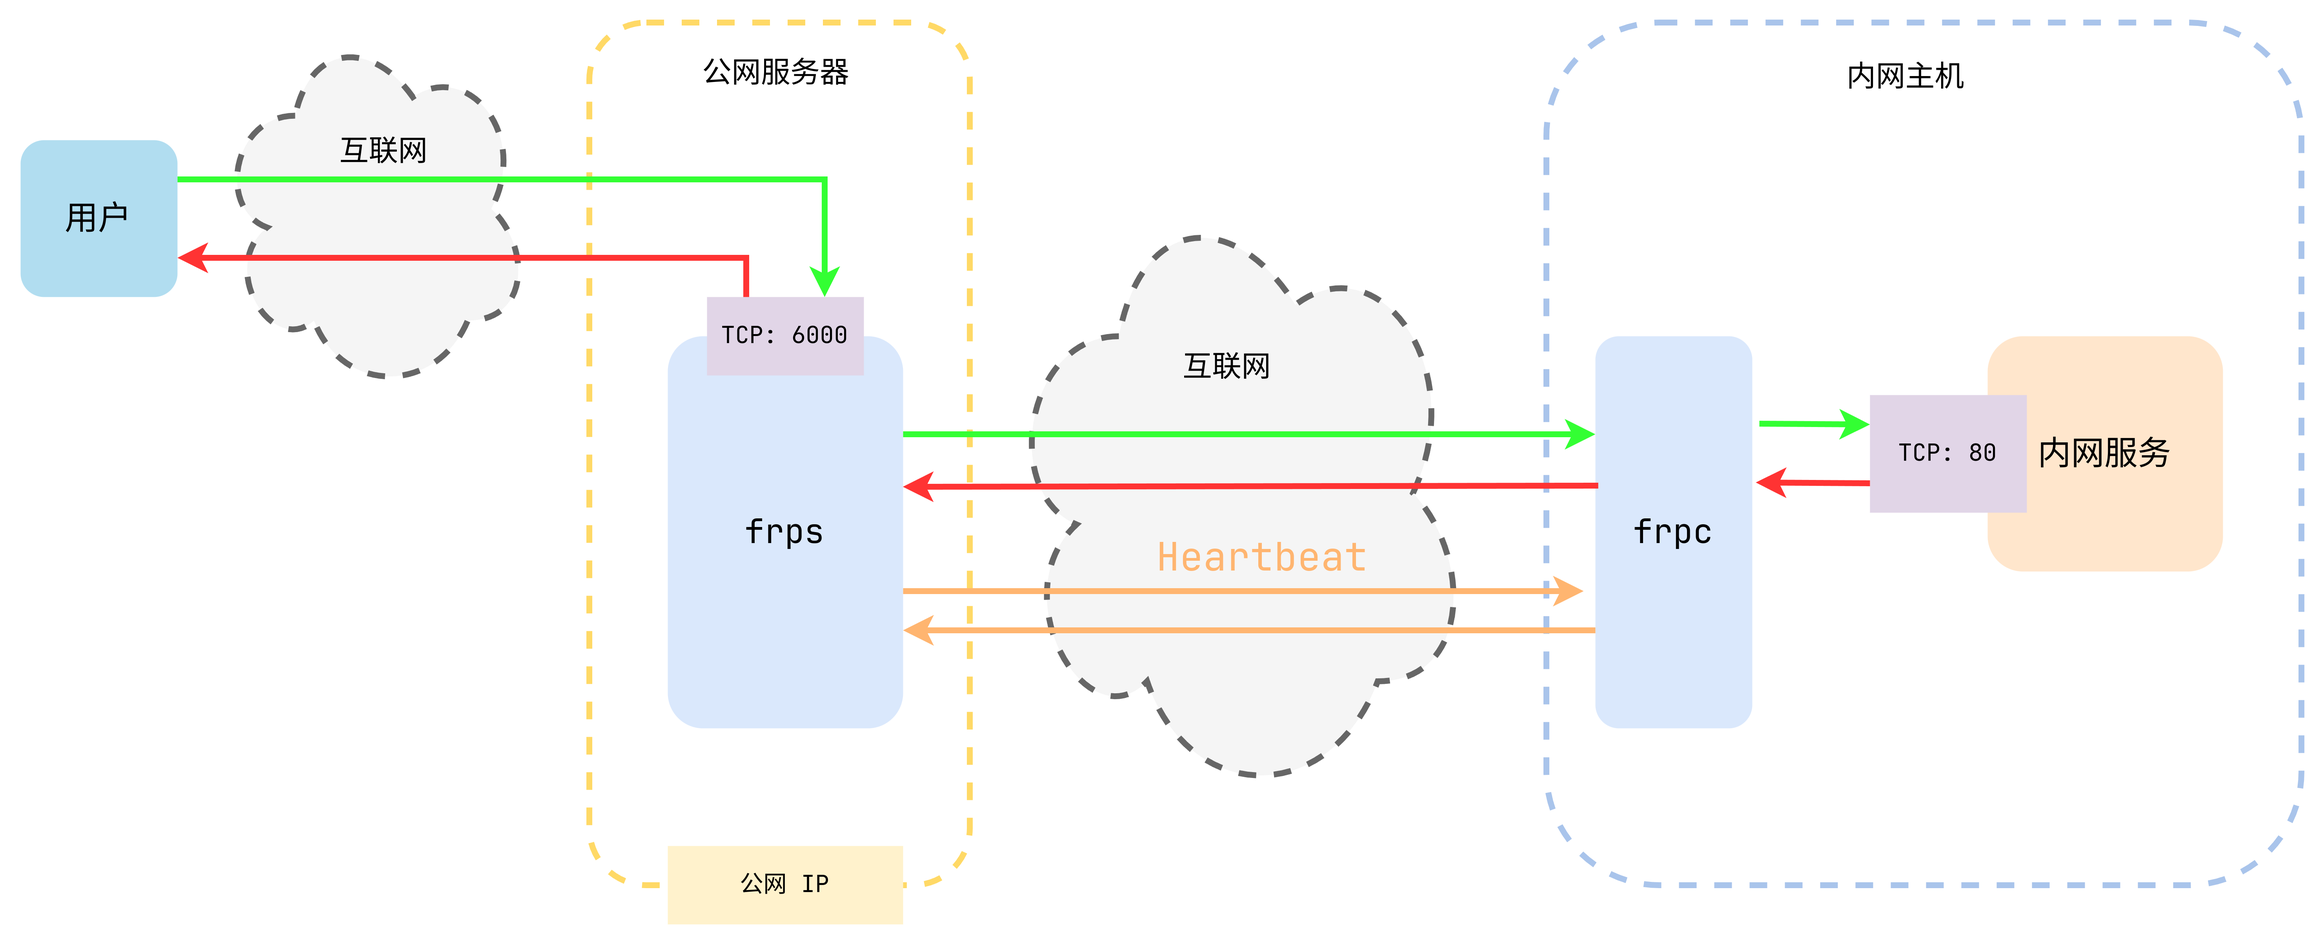
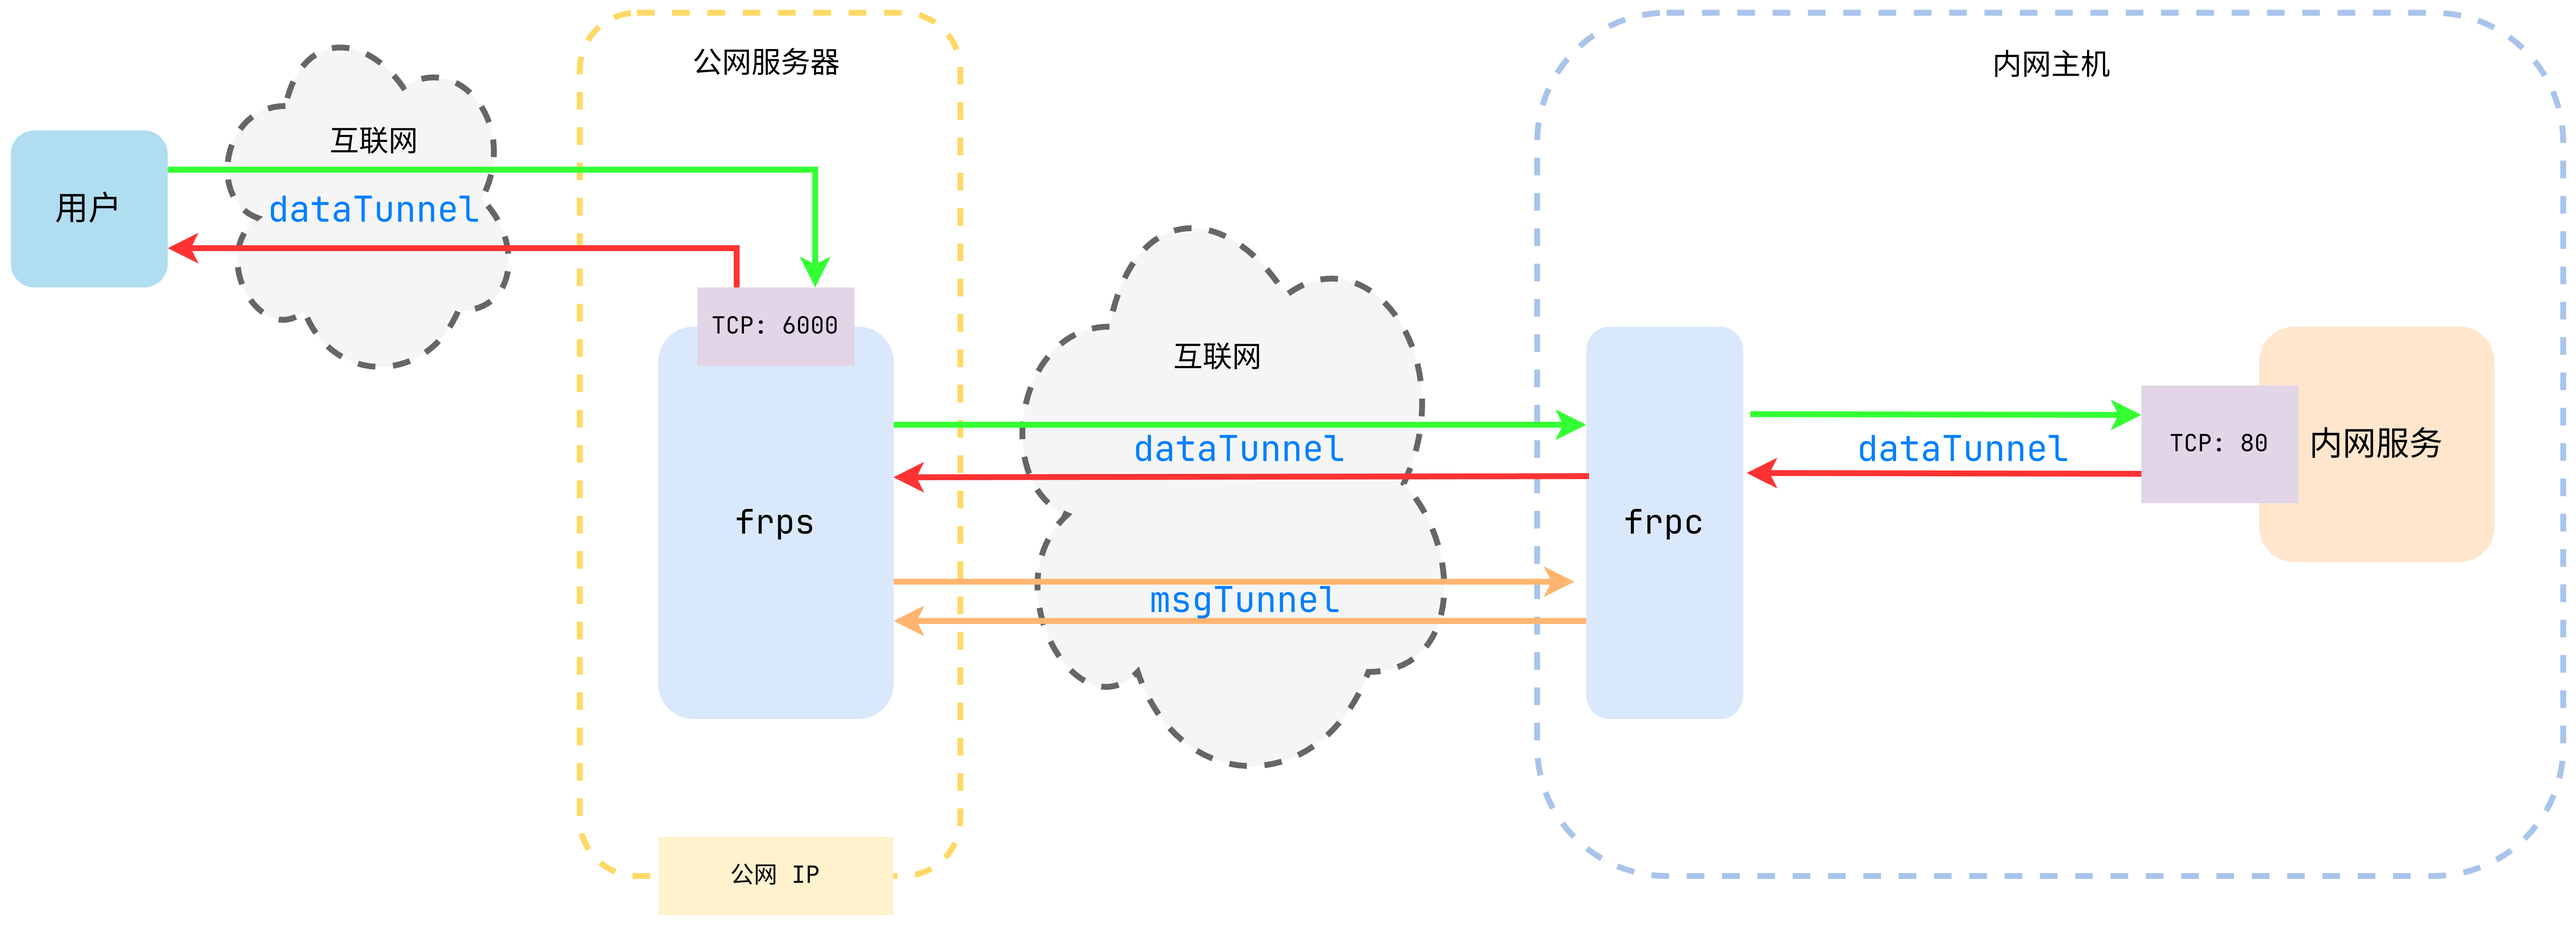
backup

diff --git a/docs/UCAS/OOP/4.md b/docs/UCAS/OOP/4.md
@@ -1,15 +1,45 @@
 # **第四章：核心流程分析**
 
 先前在第二章的[启动服务](./2.md#启动服务)小节中，已经简要介绍了 frp 服务的部署与启动流程。
-本章中，我们将把注意力放在 frp 服务的核心流程——**数据传输**上，这也是 frp 服务的根本目的。
+本章中，我们将把注意力放在 frp 服务的核心流程上——**建立连接**并进行**数据传输**，
+这也是 frp 服务的根本目的。
+
+为了方便理解，下面是本人用 draw.io 绘制的 frp 工作流程图：
 
 ![workflow](assets/workflow.png)
 
-1. **建立连接**：
-    - `frpc`会定时向`frps`发送**心跳包**以保持连接。
-    - 当有外部请求到达`frps`，`frps`将请求转发给合适的`frpc`客户端，再由`frpc`将请求转发到
-    内网的目标服务。
+我们将关注重心放在 frps 和 frpc 之间服务的建立，可以看到二者间有两条重要的通道:
 
-2. **数据传输**：
-    - 通过 frp 的转发，外部用户就能访问内网的服务，实现内网穿透的效果。
-    - 此外，经过 frp 传输的数据都通过了加密处理，以保证传输安全。
+- msgTunnel：控制消息传输隧道，用于处理消息控制传输而非实际数据转发
+    - 定时向服务器发送**心跳包**以保持连接
+    - 当用户访问服务器时，检查是否启动 dataTunnel
+    - 进行 token 验证，以保证连接安全
+- dataTunnel：数据传输隧道，用于数据转发（外部请求->`frps`->`frpc`->内网服务）
+
+通过 frp 的转发，外部用户就能访问内网的服务，实现内网穿透的效果。
+
+下面分别从 frps 和 frpc 两个角度来详细介绍这两个通道的建立过程。因为函数调用深度较大，
+并且实现细节较多（涉及到各种协议的兼容以及错误处理），所以这里不直接展示源码，
+而是通过自己绘制的时序图来展示 frps 和 frpc 之间的通信过程。
+
+## **frps**
+
+![frps](assets/frps_seq.png)
+
+可以看到，frps 作为服务器端，主要通过 `Server` 类的 `HandleListener()` 方法来监听客户端的连接请求。
+
+如果检测到有新的连接请求，用 `handleConnection()` 方法来处理，
+调用 `RegisterControl()` 方法来注册控制通道，创建一个 `Control` 实例 `ctl`。
+
+`ctl` 对象用 `worker()` 方法建立控制通道和数据通道，其中控制通道用于处理消息传输，
+
+## **frpc**
+
+![frpc](assets/frpc_seq.png)
+
+对于 frpc 客户端，主要通过 `Server` 类的 `Run()` 方法来建立与服务器的连接。
+
+首先通过 `loginUntilSuccess()` 不断重试直到登录成功，然后调用 `login()` 方法来登录服务器。
+
+登录成功后，调用 `NewControl()` 方法来创建一个 `Control` 实例 `ctl`。该实例调用 `worker()` 方法建立控制通道和数据通道。
+`worker()`方法中的具体流程和 frps 类似，但实现细节不同，尤其是对心跳包的处理，这在后面的章节中会详细介绍。

diff --git a/docs/UCAS/OOP/5.md b/docs/UCAS/OOP/5.md
@@ -1,0 +1,35 @@
+# **第五章：复杂设计意图分析**
+
+这里介绍涉及到的三个设计模式：**策略模式**、**观察者模式**和**简单工厂模式**。
+
+此外，其实还有**外观模式**，但是因为设计模式的汇报中已经提到过，所以这里不再赘述。
+
+## **策略模式**
+
+在策略模式定义了一系列算法或策略，并将每个算法封装在独立的类中，使得它们可以互相替换。通过使用策略模式，可以在运行时根据需要选择不同的算法，而不需要修改客户端代码。
+
+观察`NewLogFromConn` 函数：当传入的 `net.Conn` 对象实现了 `ContextGetter` 接口时，会从中获取上下文并使用该上下文创建日志记录器，
+这种做法可以被视为一种策略选择，即根据不同的上下文获取策略来创建日志记录器。
+
+![策略模式](assets/strategy.png)
+
+
+## **观察者模式**
+
+定义一种订阅机制， 可在对象事件发生时通知多个 “观察” 该对象的其他对象。
+
+在 frp 中，通过心跳包机制来保持 frps 和 frpc 之间的连接，这里就用到了观察者模式。
+
+1. 客户端 `heartbeatWorker`：负责定期向服务器发送心跳消息，以保持与服务器的连接活跃。客户端会定期发送心跳消息给服务器。同时，客户端会检查服务端对心跳响应超时，如果超时则关闭会话。
+2. 服务器端 `heartbeatWorker`：服务器端的 `heartbeatWorker` 也负责检查心跳超时，但是逻辑稍有不同。 服务器端会定期检查从客户端接收到的心跳时间，如果超时则关闭与客户端的连接。
+
+![观察者模式](assets/workflow.png)
+
+## **简单工厂模式**
+
+一种创建型设计模式， 其在父类中提供一个创建对象的方法， 允许子类决定实例化对象的类型。
+
+下面的 `NewProxy` 函数就是一个简单工厂模式的应用，
+根据传入的 `Options` 参数和上下文 `ctx`，创建一个基础代理 `BaseProxy` 对象。
+
+![简单工厂模式](assets/factory.png)

diff --git a/docs/UCAS/OOP/3.md b/docs/UCAS/OOP/3.md
@@ -1,1 +1,56 @@
 # **第三章：主要功能分析与建模**
+
+frp 最核心的功能就是通过反向代理实现内网穿透，关于 frps 与 frpc 之间建立连接的具体过程将在下一章节详细叙述。
+这里我们先关注与该核心功能紧密相关的几个模块：
+
+- server
+    - service
+    - control
+- client
+    - service
+    - control
+- pkg
+    - msg
+
+下面将介绍这几个模块中的类，以及它们之间的关系。类图用工具 `goplantuml` 生成。
+
+## **client 模块中的类**
+
+### **client.Service**
+
+![client.Service](assets/cService.png)
+
+用途：负责与服务器建立连接，管理代理和访客配置，并提供代理服务。
+同时，还管理客户端的配置信息、身份验证和服务终止操作。
+
+### **client.Control**
+
+![client.Control](assets/cControl.png)
+
+用途：负责管理与服务器的控制连接，处理代理和访客的信息，以及处理消息的传输和分发。
+
+## **server 模块中的类**
+
+### **server.Service**
+
+![server.Service](assets/sService.png)
+
+用途：负责接受并处理来自客户端的连接请求，同时管理各种连接类型和相关组件。
+
+### **server.Control**
+
+![server.Control](assets/sControl.png)
+
+用途：负责管理资源、代理和插件，验证客户端身份认证，处理消息传输和分发。
+
+## **msg 模块中的类**
+
+因为 `msg` 模块中类数量众多，他们的作用都集中于服务端、客户端以及用户间消息的传递：
+
+![msg](assets/msg.png)
+
+其中，比较重要的是 `Dispatcher` ，它在应用程序中扮演关键角色，用于管理消息的发送和接收，
+以及消息的处理分发。通过注册消息处理函数，可以根据不同类型的消息执行相应的操作，
+实现消息的**定制化处理**。
+
+![Dispatcher](assets/Dispatcher.png)

diff --git a/docs/ChinaSys/record.md b/docs/ChinaSys/record.md
@@ -1,0 +1,63 @@
+# ChinaSys 记录
+
+## 高性能安全并发的工业实践
+
+### 形式化验证
+
+1. 并发理论，并发精化验证
+2. 支持并发抢占的并发精化验证框架
+3. 并发文件系统验证，鸿蒙微内核形式化验证
+4. 可证明的高性能多核并发控制
+5. 可证明高性能多核并发在方天视窗和鸿途 Web 中应用
+
+### 端到端安全并发
+
+基于共享内存的并发(Weak Memory Model)
+
+形式化方法用在端到端安全并发困难：代码规模大，迭代快
+
+
+
+## 面向视觉多模态模型的专用 AI 处理器芯片架构设计
+
+三种背景下加速芯片架构设计方法：
+
+### 视频大模型(ViT)
+
+视频大模型算法：Video Transformer(VidT)
+
+传统加速方案：
+    - 引入预测模块以预测 token 重要性，剪枝非重要 token
+    - 缺点：预测模块开销大，仅专注于单帧内部优化
+
+新方案：
+    - 视频帧分为 I 帧和 P 帧，I 帧为关键帧，P 帧为预测帧
+    - 利用视频编解码器预测 I 帧 和 P 帧的重要 token
+    - 跳过非重要 token 的计算
+    - 优点：避免使用高开销的预测模块，专注于时间空间两方面优化
+
+时间：CMC 算法，预测重要 token
+
+空间：CMC 架构
+
+### 神经辐射场渲染(INGP)
+
+### 3D 高斯泼溅(3DGS)
+
+
+
+## Understading the Linux Kernel
+
+介绍了交互式调试工具 ViewCL 和 ViewQL
+
+### 内核调试难点
+
+Maple Tree 结构复杂
+
+gdb 过于 low-level
+
+指针嵌套太长
+
+### ViewCL，ViewQL 帮助内核调试
+
+## 通用调度
